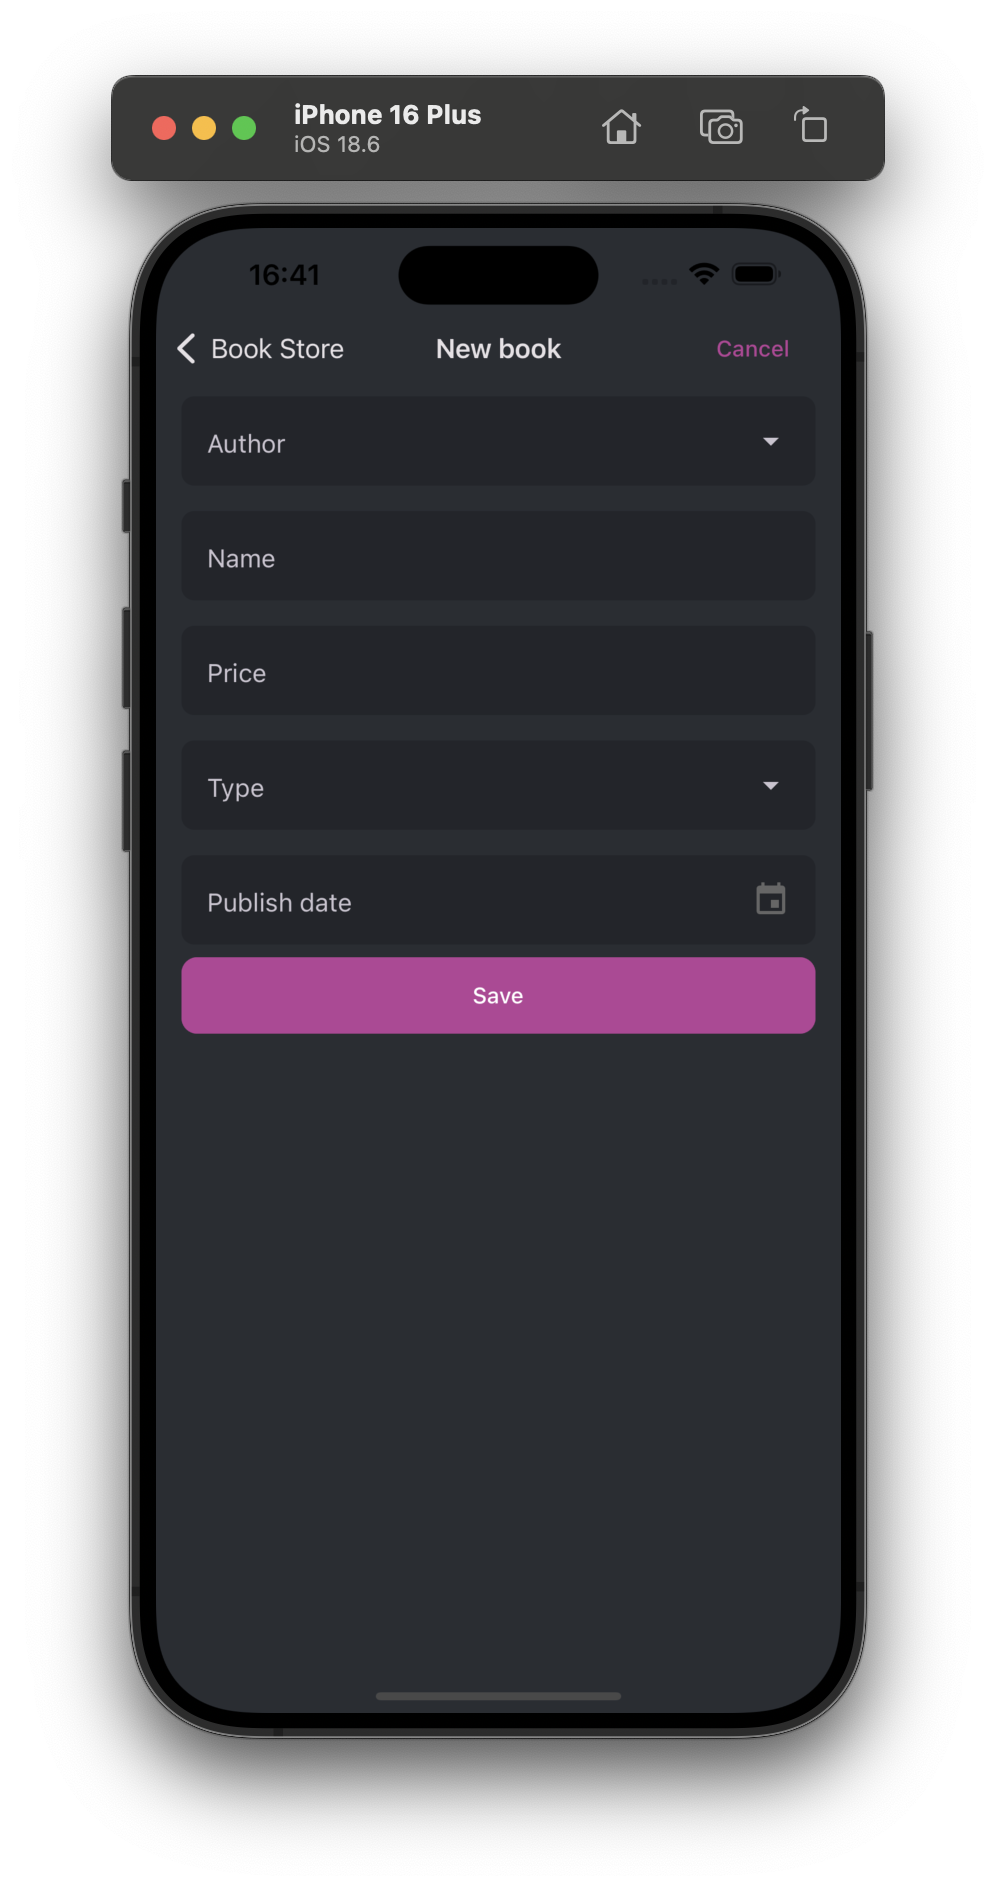
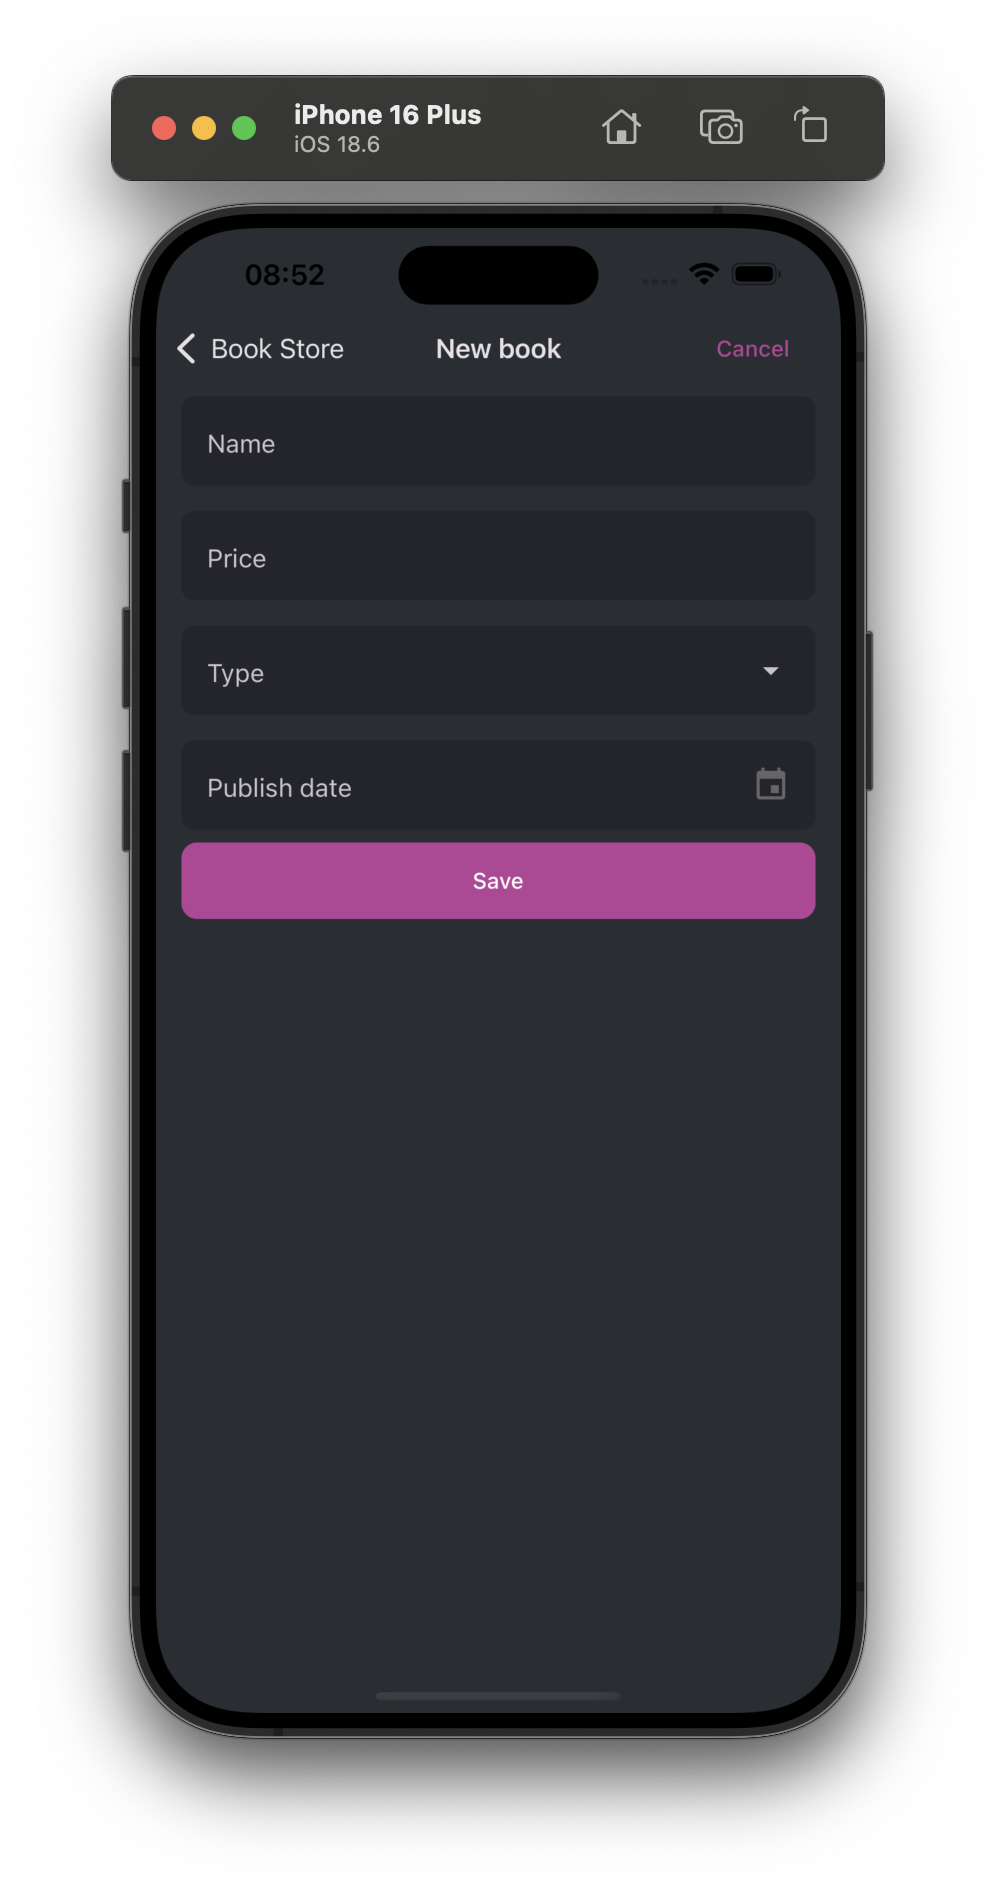
update: small missing doc elements for react native

diff --git a/docs/en/suite/solution-structure.md b/docs/en/suite/solution-structure.md
@@ -318,8 +318,8 @@ React Native application folder structure is like below:
 
 ![react-native-folder-structure](../images/react-native-folder-structure.png)
 
-* `App.js` is the bootstrap component of the application.
-* `Environment.js` file has the essential configuration of the application. `prod` and `dev` configurations are defined in this file. 
+* `App.tsx` is the bootstrap component of the application.
+* `Environment.ts` file has the essential configuration of the application. `prod` and `dev` configurations are defined in this file. 
 * [Contexts](https://reactjs.org/docs/context.html) are created in the `src/contexts` folder.
 * [Higher order components](https://reactjs.org/docs/higher-order-components.html) are created in the `src/hocs` folder.
 * [Custom hooks](https://reactjs.org/docs/hooks-custom.html#extracting-a-custom-hook) are created in the `src/hooks`.
@@ -353,12 +353,11 @@ Actions, reducers, sagas, selectors are created in the `src/store` folder. Store
 * [**Store**](https://redux.js.org/basics/store) is defined in the `src/store/index.js` file.
 * [**Actions**](https://redux.js.org/basics/actions/) are payloads of information that send data from your application to your store.
 * [**Reducers**](https://redux.js.org/basics/reducers) specify how the application's state changes in response to actions sent to the store. 
-* [**Redux-Saga**](https://redux-saga.js.org/) is a library that aims to make application side effects (i.e. asynchronous things like data fetching and impure things like accessing the browser cache) easier to manage. Sagas are created in the `src/store/sagas` folder.
 * [**Reselect**](https://github.com/reduxjs/reselect) library is used to create memoized selectors. Selectors are created in the `src/store/selectors` folder.
 
 ### APIs
 
-[Axios](https://github.com/axios/axios) is used as the HTTP client library. An Axios instance is exported from  `src/api/API.js` file to make HTTP calls with the same config. `src/api` folder also has the API files that have been created for API calls.
+[Axios](https://github.com/axios/axios) is used as the HTTP client library. An Axios instance is exported from  `src/api/API.ts` file to make HTTP calls with the same config. `src/api` folder also has the API files that have been created for API calls.
 
 ### Theming
 
@@ -381,7 +380,6 @@ See the [Testing Overview](https://reactjs.org/docs/testing.html) document.
 * [Axios](https://github.com/axios/axios) is used as HTTP client library.
 * [Redux](https://redux.js.org/) is used as state management library.
 * [Redux Toolkit](https://redux-toolkit.js.org/) library is used as a toolset for efficient Redux development.
-* [Redux-Saga](https://redux-saga.js.org/) is used to manage asynchronous processes.
 * [Redux Persist](https://github.com/rt2zz/redux-persist) is used for state persistance.
 * [Reselect](https://github.com/reduxjs/reselect) is used to create memoized selectors.
 * [i18n-js](https://github.com/fnando/i18n-js) is used as i18n library.

diff --git a/docs/en/solution-templates/layered-web-application/mobile-applications.md b/docs/en/solution-templates/layered-web-application/mobile-applications.md
@@ -94,22 +94,22 @@ You can follow [Mobile Application Development Tutorial - MAUI](../../tutorials/
 This is the mobile application that is built based on Facebook's [React Native framework](https://reactnative.dev/) and [Expo](https://expo.dev/). It will be in the solution only if you've selected React Native as your mobile application option.
 
 #### Project Structure
-- **Environment.js**: file using for provide application level variables like `apiUrl`, `oAuthConfig` and etc.
+- **Environment.ts**: file using for provide application level variables like `apiUrl`, `oAuthConfig` and etc.
 
 - **api**: The `api` folder contains HTTP request files that simplify API management in the React Native starter template
-  - `API.js:` exports **axiosInstance**. It provides axios instance filled api url
+  - `API.ts:` exports **axiosInstance**. It provides axios instance filled api url
 
 - **components**: In the `components` folder you can reach built in react native components that you can use in your app. These components **facilitates** your list, select and etc. operations
 
 - **contexts**: `contexts` folder contains [react context](https://react.dev/reference/react/createContext). You can expots your contexts in this folder. `Localization context provided in here`
 
-- **navigators**: folder contains [react-native stacks](https://reactnavigation.org/docs/stack-navigator/). After create new *FeatureName*Navigator we need to provide in `DrawerNavigator.js` file as `Drawer.Screen`
+- **navigators**: folder contains [react-native stacks](https://reactnavigation.org/docs/stack-navigator/). After create new *FeatureName*Navigator we need to provide in `DrawerNavigator.tsx` file as `Drawer.Screen`
 
 - **screens**: is the content of navigated page. We'll pass as component property to [Stack.Screen](https://reactnavigation.org/docs/native-stack-navigator/)
 
-- **store**: folder manages state-management operations. We will define `actions`, `reducers`, `sagas` and `selectors` here.
+- **store**: folder manages state-management operations. We will define `actions`, `listeners`, `reducers`, and `selectors` here.
 
-- **styles**: folder contains app styles. `system-style.js` comes built in template we can also add new styles.
+- **styles**: folder contains app styles. `system-style.ts` comes built in template we can also add new styles.
 
 - **utils**: folder contains helper functions that we can use in application
 

diff --git a/docs/en/tutorials/mobile/react-native/index.md b/docs/en/tutorials/mobile/react-native/index.md
@@ -28,9 +28,6 @@ import api from './API';
 
 export const getList = () => api.get('/api/app/book').then(({ data }) => data);
 
-export const getAuthorLookup = () =>
-  api.get('/api/app/book/author-lookup').then(({ data }) => data);
-
 export const get = id => api.get(`/api/app/book/${id}`).then(({ data }) => data);
 
 export const create = input => api.post('/api/app/book', input).then(({ data }) => data);
@@ -867,7 +864,6 @@ import CreateUpdateBookForm from './CreateUpdateBookForm';
 function CreateUpdateBookScreen({ navigation, route, startLoading, clearLoading }) {
   const { bookId } = route.params || {};
   const [book, setBook] = useState(null);
-  const [authors, setAuthors] = useState([]);
 
   const submit = (data: any) => {
     startLoading({ key: 'save' });
@@ -887,11 +883,7 @@ function CreateUpdateBookScreen({ navigation, route, startLoading, clearLoading 
     }
   }, [bookId]);
 
-  useEffect(() => {
-    getAuthorLookup().then(({ items } = {}) => setAuthors(items));
-  }, []);
-
-  return <CreateUpdateBookForm submit={submit} book={book} authors={authors} />;
+  return <CreateUpdateBookForm submit={submit} book={book} />;
 }
 
 CreateUpdateBookScreen.propTypes = {
